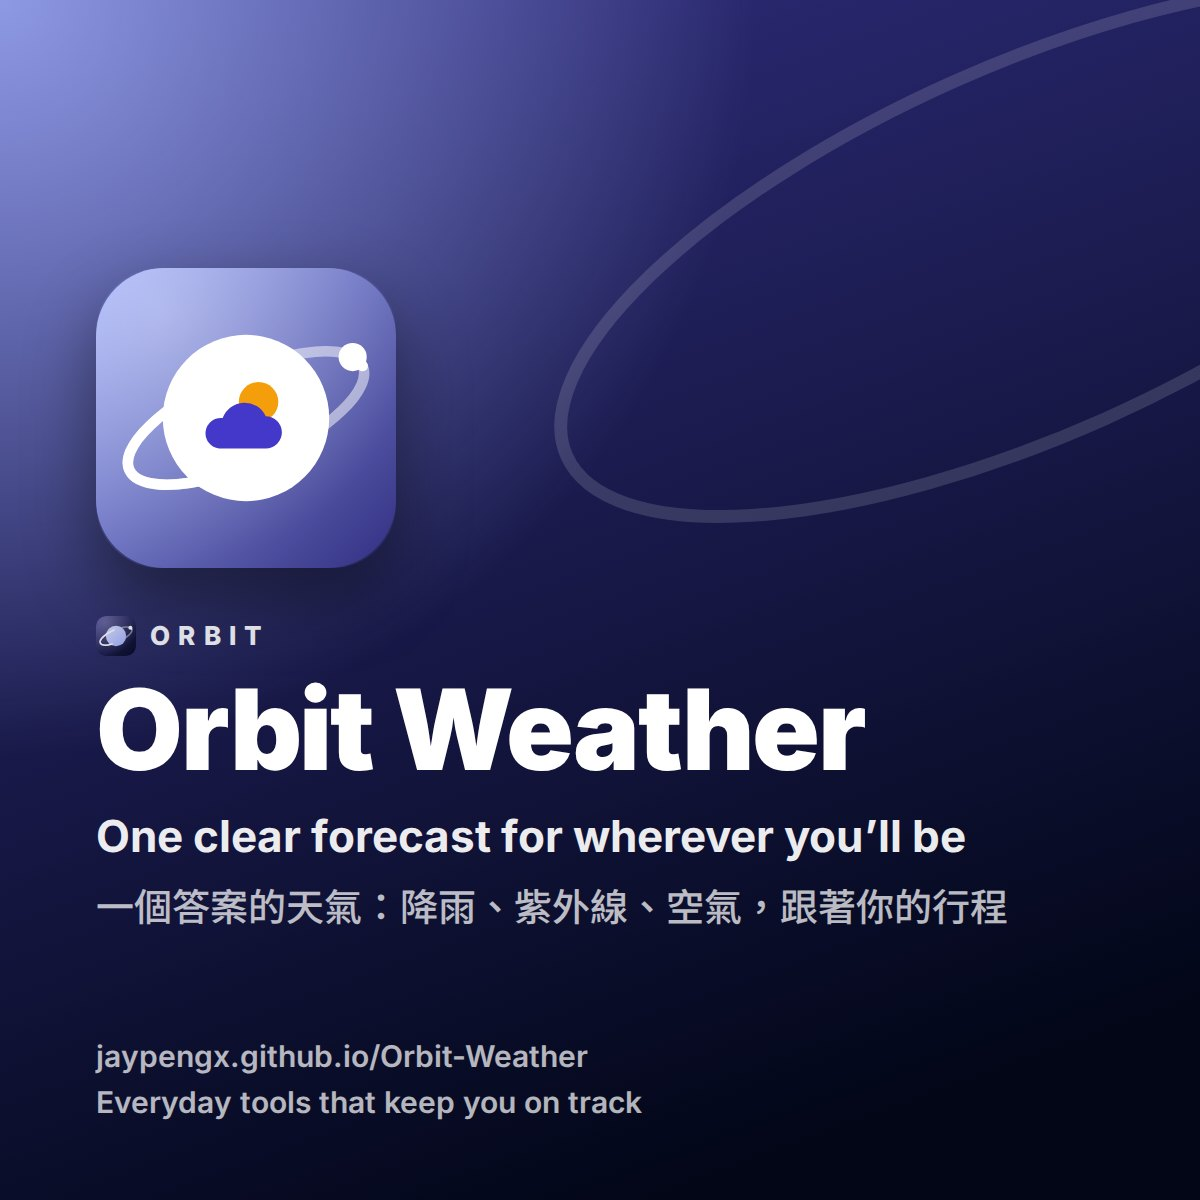
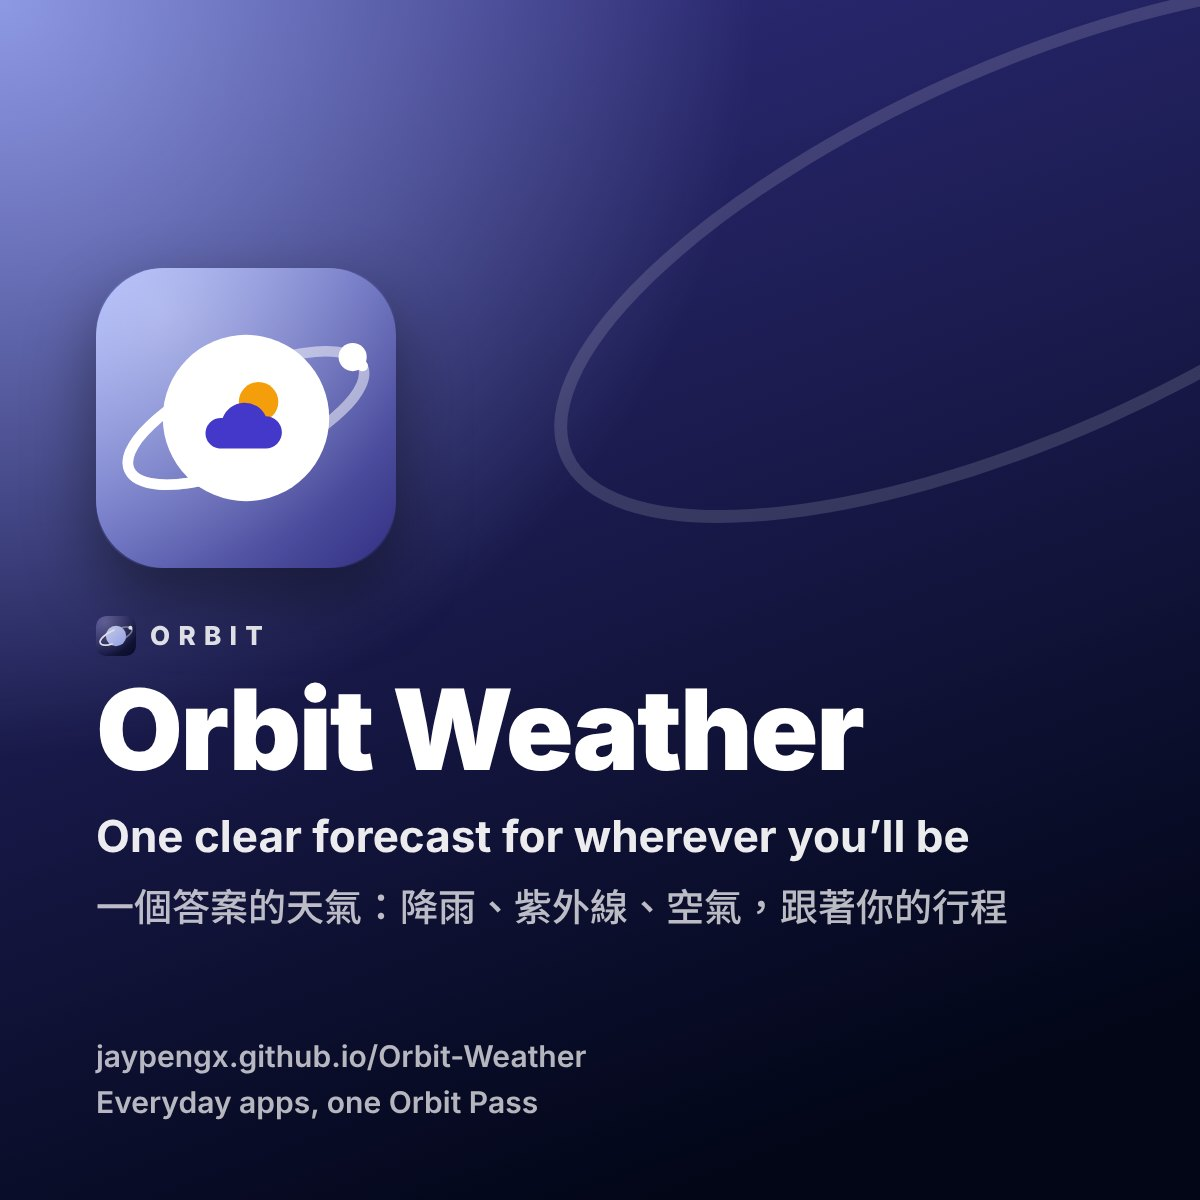
Quadra is now Orbit: Orbit Pass, Orbit Securities, one family; kit orbit.mjs/orbit.css, ORBIT_KIT, orbit.* keys
Claude-Session: https://claude.ai/code/session_017Z8MjamomJpVEaRoiMWmHA

diff --git a/public/index.html b/public/index.html
@@ -43,21 +43,21 @@
 <link rel="preconnect" href="https://orbit-workers-proxy.pengzjay.workers.dev" crossorigin />
 <!-- kit:head: where the app's stylesheets end, before any module. The kit
      comes from one place for every app (Shared-Proxy's GitHub Pages, same
-     site as the apps), each file at the hash this device last saw (quadra.kit
-     and quadra.kitFiles, noted from the kit's version.json by boot.js and
-     quadra.mjs kitLatest; on a first visit the hashes the app's deploy
+     site as the apps), each file at the hash this device last saw (orbit.kit
+     and orbit.kitFiles, noted from the kit's version.json by boot.js and
+     orbit.mjs kitLatest; on a first visit the hashes the app's deploy
      baked in, the `null` at the end), so a change to the kit is one push
      to Shared-Proxy and a phone downloads only the files it changed. A kit
      file newer than the app's deploy (not in its list) is mapped from those
      hashes too, never left at a bare address the browser keeps 10 minutes. -->
-<script>!function(b,d,v,h,n,m,f,i,u){try{v=localStorage.getItem('quadra.kit')||'';h=JSON.parse(localStorage.getItem('quadra.kitFiles')||'null')}catch(e){v=''}n=!!v;if(!n&&d){v=d.version;h=d}h=h&&h.version===v?h.files:null;u=function(x){var k=h&&h[x];return b+x+(k?'?v='+k:v?'?v='+encodeURIComponent(v):'')};m={'#kit/':b};f=['brand.mjs','catalog.mjs','devconfig.mjs','f1live.mjs','format.mjs','gov.mjs','help.mjs','holidays.mjs','lang.mjs','loan.mjs','logos.mjs','mirror.mjs','names.mjs','pass-sync.mjs','pass.mjs','photo-urls.mjs','photos.mjs','play-alive.mjs','play-bets.mjs','play-board.mjs','play-boardfile.mjs','play-cashout.mjs','play-house.mjs','play-kambi.mjs','play-lines.mjs','play-live.mjs','play-lottery.mjs','play-markets.mjs','play-odds.mjs','play-offers.mjs','play-players.mjs','play-propmodel.mjs','play-props.mjs','play-recommend.mjs','play-rules.mjs','play-schedules.mjs','play-scratch.mjs','play-sources.mjs','play-teams.mjs','plus.mjs','postseason.mjs','quadra.mjs','settle.mjs','sports-broadcast.mjs','sports-espn.mjs','sports-highlights.mjs','sports-winprob.mjs','stock-account.mjs','stock-bonds.mjs','stock-codec.mjs','stock-credit.mjs','stock-hk-lots.mjs','stock-holidays.mjs','stock-ipo.mjs','stock-jp-lists.mjs','stock-markets.mjs','stock-quotes.mjs','stock-savings.mjs','truth.mjs','ui.mjs'];for(i=0;i<f.length;i++)m['#kit/'+f[i]]=u(f[i]);if(h)for(i in h)/\.mjs$/.test(i)&&(m['#kit/'+i]=u(i));window.QUADRA_KIT={base:b,version:v,noted:n,url:u};document.write('<script type="import'+'map">'+JSON.stringify({imports:m})+'<\/script><link rel="stylesheet" href="'+u('quadra.css')+'"><link rel="modulepreload" href="'+u('quadra.mjs')+'"><link rel="modulepreload" href="'+u('brand.mjs')+'">')}('../Shared-Proxy/kit/',null)</script>
+<script>!function(b,d,v,h,n,m,f,i,u){try{v=localStorage.getItem('orbit.kit')||'';h=JSON.parse(localStorage.getItem('orbit.kitFiles')||'null')}catch(e){v=''}n=!!v;if(!n&&d){v=d.version;h=d}h=h&&h.version===v?h.files:null;u=function(x){var k=h&&h[x];return b+x+(k?'?v='+k:v?'?v='+encodeURIComponent(v):'')};m={'#kit/':b};f=['brand.mjs','catalog.mjs','dayoff.mjs','devconfig.mjs','f1live.mjs','format.mjs','gov.mjs','help.mjs','holidays.mjs','lang.mjs','loan.mjs','logos.mjs','mirror.mjs','names.mjs','orbit.mjs','pass-sync.mjs','pass.mjs','photo-urls.mjs','photos.mjs','play-alive.mjs','play-bets.mjs','play-board.mjs','play-boardfile.mjs','play-house.mjs','play-kambi.mjs','play-lines.mjs','play-live.mjs','play-lottery.mjs','play-markets.mjs','play-odds.mjs','play-offers.mjs','play-players.mjs','play-props.mjs','play-recommend.mjs','play-rules.mjs','play-schedules.mjs','play-scratch.mjs','play-sources.mjs','play-teams.mjs','postseason.mjs','settle.mjs','sports-broadcast.mjs','sports-espn.mjs','sports-highlights.mjs','sports-winprob.mjs','stock-account.mjs','stock-bonds.mjs','stock-codec.mjs','stock-credit.mjs','stock-hk-lots.mjs','stock-holidays.mjs','stock-ipo.mjs','stock-jp-lists.mjs','stock-markets.mjs','stock-quotes.mjs','stock-savings.mjs','ui.mjs'];for(i=0;i<f.length;i++)m['#kit/'+f[i]]=u(f[i]);if(h)for(i in h)/\.mjs$/.test(i)&&(m['#kit/'+i]=u(i));window.ORBIT_KIT={base:b,version:v,noted:n,url:u};document.write('<script type="import'+'map">'+JSON.stringify({imports:m})+'<\/script><link rel="stylesheet" href="'+u('orbit.css')+'"><link rel="modulepreload" href="'+u('orbit.mjs')+'"><link rel="modulepreload" href="'+u('brand.mjs')+'">')}('../Shared-Proxy/kit/',null)</script>
 <!-- /kit:head -->
 <link rel="stylesheet" href="./weather.css" />
 </head>
 <body>
 <div id="loading" data-title="Orbit Weather"></div>
 <!-- kit:boot: right after <div id="loading">. -->
-<script>document.write('<script src="'+QUADRA_KIT.url('boot.js')+'"><\/script>')</script>
+<script>document.write('<script src="'+ORBIT_KIT.url('boot.js')+'"><\/script>')</script>
 <!-- /kit:boot -->
 <header class="q-appbar">
   <div class="q-appbar-inner">

diff --git a/public/sw.js b/public/sw.js
@@ -3,5 +3,5 @@
 // without a connection and can be installed, and never keeps a file that
 // isn't the one its address names (GitHub's CDN can answer a new address
 // with the old file for a while after a deploy).
-self.QUADRA_SW = { cache: 'orbit-weather-v1', title: 'Orbit Weather' };
+self.ORBIT_SW = { cache: 'orbit-weather-v1', title: 'Orbit Weather' };
 importScripts('../Shared-Proxy/kit/sw.js');

diff --git a/public/weather.css b/public/weather.css
@@ -1,4 +1,4 @@
-/* Orbit Weather on the Quadra kit (quadra.css: tokens, tab bar, sheets,
+/* Orbit Weather on the Orbit kit (orbit.css: tokens, tab bar, sheets,
    lists, the premium layer). Organised by screen: the frame, 今天 (the sky,
    the next hours, the advice), 預報 (the indicators, the days), 地點, then
    the sheets, the graphs and the pictures. Light and dark come from the

diff --git a/README.md b/README.md
@@ -1,7 +1,7 @@
 # Orbit Weather
 
 One forecast for where you are and the places you pin, to the township.
-Signs in with the Quadra Pass (which keeps the pins); the shared kit draws
+Signs in with the Orbit Pass (which keeps the pins); the shared kit draws
 the frame and sends the notices.
 
 Live: https://jaypengx.github.io/Orbit-Weather/
